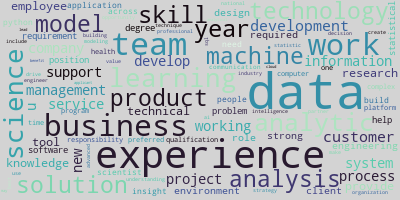
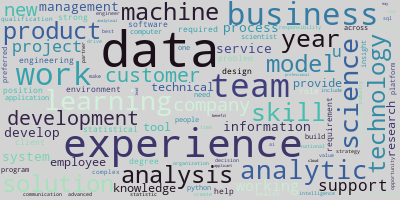
parsed indices 600-700 of the bigrams

diff --git a/nlp_main.py b/nlp_main.py
@@ -547,15 +547,18 @@ ds_cred_terms = ['ability',
                  'scientist',
                  'security', 
                  'software',
+                 'solid', 
                  'statistic',
                  'statistics',
                  'technical',
-                 'track', 
+                 'track',
+                 'understanding',
                  'work',
                  'working',
                  'year'] # degrees, work and job titles
 
-ds_tech_skill_terms = ['ai',
+ds_tech_skill_terms = ['ab', 
+                       'ai',
                        'airflow',
                        'advanced',
                        'algorithm',
@@ -565,6 +568,7 @@ ds_tech_skill_terms = ['ai',
                      'analytics',
                      'analyze',
                      'analyzing',
+                     'anomaly', 
                      'applied',
                      'applying',
                      'architecture',
@@ -572,12 +576,15 @@ ds_tech_skill_terms = ['ai',
                      'aws', 
                      'azure',
                      'big',
+                     'build', 
                      'c',
                      'cloud', 
+                     'code', 
                      'collection'
                      'complex',
                      'computer',
                      'computing',
+                     'concept',
                      'control',
                      'cutting', 
                      'data',
@@ -586,8 +593,10 @@ ds_tech_skill_terms = ['ai',
                      'database',
                      'decision', 
                      'deep',
+                     'deploy',
                      'design', 
                      'designing',
+                     'detection',
                      'develop',
                      'development',
                      'django',
@@ -597,12 +606,17 @@ ds_tech_skill_terms = ['ai',
                      'engineer',
                      'engineering',
                      'enterprise',
+                     'experimental', 
                      'exploratory',
                      'fastapi',
+                     'feature', 
                      'flask',
+                     'forest',
                      'framework',
                      'generation',
                      'google',
+                     'image',
+                     'imagery',
                      'implement',
                      'implementation',
                      'information',
@@ -616,7 +630,9 @@ ds_tech_skill_terms = ['ai',
                      'largescale',
                      'learning',
                      'machine',
+                     'maintain',
                      'mathematics',
+                     'method',
                      'microsoft', 
                      'mining',
                      'ml',
@@ -636,9 +652,12 @@ ds_tech_skill_terms = ['ai',
                      'programming', 
                      'python',
                      'pytorch',
+                     'query',
                      'relational', 
                      'r',
+                     'random', 
                      'reinforcement',
+                     'review',
                      'scale',
                      'science',
                      'scripting',
@@ -651,14 +670,16 @@ ds_tech_skill_terms = ['ai',
                      'spark',
                      'sql',
                      'statistic',
-                     'statistics'
+                     'statistics',
                      'statistical',
                      'structured',
                      'system',
                      'tableau',
+                     'technical',
                      'technique',
                      'technology',
                      'tensorflow', 
+                     'testing',
                      'time', 
                      'tool',
                      'tree',
@@ -676,6 +697,7 @@ ds_soft_skill_terms = ['ad',
                      'best',
                      'business',
                      'cause',
+                     'challenging', 
                      'closely',
                      'cognitive',
                      'collaborate',
@@ -688,12 +710,14 @@ ds_soft_skill_terms = ['ad',
                      'decision', 
                      'detail',
                      'dynamic',
+                     'effectively',
                      'environment',
                      'excellent',
                      'experience',
                      'fastpaced',
                      'flexible',
                      'high', 
+                     'highly', 
                      'hoc', 
                      'idea',
                      'impact',
@@ -705,7 +729,9 @@ ds_soft_skill_terms = ['ad',
                      'making',
                      'management',
                      'member',
+                     'motivated',
                      'nontechnical', 
+                     'oral,'
                      'organization',
                      'people',
                      'player',
@@ -724,6 +750,7 @@ ds_soft_skill_terms = ['ad',
                      'team',
                      'technical',
                      'thinking',
+                     'time', 
                      'together',
                      'user', 
                      'verbal',
@@ -758,6 +785,7 @@ ds_prof_skill_terms = ['ability',
                        'drive',
                        'driven',
                        'efficiency',
+                       'end', 
                        'experience',
                        'expert',
                        'expertise',
@@ -811,9 +839,11 @@ ds_prof_skill_terms = ['ability',
                        'team',
                        'thought',
                        'track',
+                       'transform',
                        'transformation',
                        'understanding',
                        'use',
+                       'user',
                        'value',
                        'work',
                        'working']
@@ -823,13 +853,15 @@ ds_network_skill_terms = []
 
 
 
-stops_permanent_hold = ['internal','external', 'new', 'capital', 'part', 'across', 'multiple', 'plus', 'clinical', 'trial',
+stops_permanent_hold = list(set(['internal','external', 'new', 'capital', 'part', 'across', 'multiple', 'plus', 'clinical', 'trial',
                         'strong', 'high', 'quality', 'additional', 'unit', 'would', 'like', 'wide', 'variety',
                         'may', 'include', 'core', 'like', 'qualification', 'fair', 'chance', 'include', 'limited',
                         'per', 'small', 'least', 'key', 'support', 'best', 'policy', 'real', 'estate', 'may', 'required',
                         'world', 'extensive', 'senior', 'looking', 'globe', 'monday', 'friday', 'hand',
                         'million', 'lockheed', 'martin', 'leverage', 'comfortable', 'maintaining', 'broad', 'good',
-                        'sr']
+                        'sr', 'long', 'term', 'must', 'ensure', 'following', 'area', 'social', 'medium', 'chance',
+                        'ordinance', 'conversational', 'getty', 'highly', 'motivated', 'may', 'also', 'largest',
+                        'committed', 'translate', 'essential', 'duty', 'due']))
 
 
 stops_other_hr_hold = ['senior', 'closely', 'federal', 'state', 'local', 'laws', 'preferred', 'qualification',
@@ -838,8 +870,8 @@ stops_other_hr_hold = ['senior', 'closely', 'federal', 'state', 'local', 'laws',
                        'benefit', 'package', 'law', 'health', 'care', 'type', 'fulltime', 'employee', 'applicant',
                        'diversity', 'inclusion', 'responsibility', 'include', 'physical', 'mental', 'wide', 'range',
                        'must', 'able', 'following', 'consider', 'qualified', 'request', 'accommodation',
-                       'diverse', 'inclusive', 'basic', 'paid', 'time', 'parental', 'leave', 'application', 'process',
-                       'full', 'time', 'committed', 'providing', 'remote', 'required', 'basis', 'national',
+                       'diverse', 'inclusive', 'basic', 'paid', 'parental', 'leave', 'application', 'process',
+                       'full', 'committed', 'providing', 'remote', 'required', 'basis', 'national',
                        'health', 'safety', 'place', 'competitive', 'salary', 'range', 'perform', 'essential', 'key', 'responsibility',
                        'creed', 'national', 'ancestry', 'federal', 'contractor', 'preferred', 'worklife', 'balance',
                        'contact', 'accommodation', 'request', 'able', 'responsible', 'travel', 'requirement',
@@ -850,11 +882,14 @@ stops_other_hr_hold = ['senior', 'closely', 'federal', 'state', 'local', 'laws',
                        'location', 'paid', 'holiday', 'tuition', 'reimbursement', 'opportunity', 'hire',
                        'human', 'resource', 'cover', 'letter', 'home', 'reporting', 'need', 'assistance',
                        'comprehensive', 'benefit', 'citizenship', 'compensation', 'history', 'spending',
-                       'position', 'summary', 'compensation', 'benefit', 'workforce', 'benefit', '401k', 'role']
+                       'position', 'summary', 'compensation', 'benefit', 'workforce', 'benefit', '401k', 'role',
+                       'candidate', 'legally', 'recruiting', 'religious', 'belief', 'match', 'paid', 'parental',
+                       'assistance', 'accommodation', 'visa', 'sponsorship', 'access', 'compensation', 'package',
+                       'culture']
 
 consideration = ['building', 'environment'] # financial, service | experience, building | work, environment | supply, chain | essential, function
 
-c19 = ['proof', 'vaccination', 'executive', 'order']
+c19 = ['proof', 'vaccination', 'executive', 'order', 'requirement']
 
 ds_task_terms = ['processing', 'model']
 python_library_terms = ['numpy', 'pandas']
@@ -873,7 +908,7 @@ visualize_indeed_data(df)
 
 # execute nlp
 n_gram_count = 2
-n_gram_range_start, n_gram_range_stop  = 500, 600
+n_gram_range_start, n_gram_range_stop  = 600, 700
 n_grams = count_n_grams(terms_for_nlp, n_gram_count, n_gram_range_start, n_gram_range_stop)
 
 visualize_word_clouds(terms_for_nlp)
